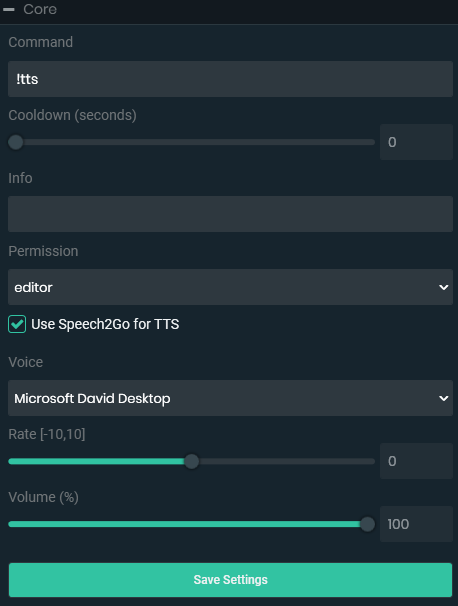
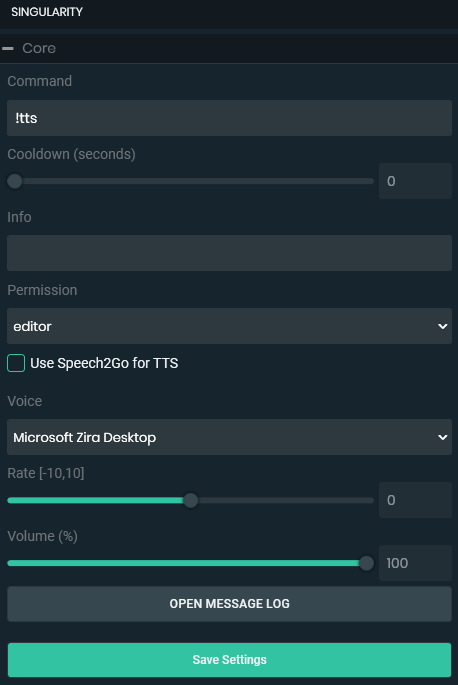
update singularity screenshot and description

diff --git a/README.md b/README.md
@@ -25,7 +25,8 @@ And here is a screenshot of the UI in the bot.
 
 [Latest Release](https://github.com/Reecon/SLSingularity/releases/latest "Singularity Latest Release")
 
-A simple script that allows people to whisper the bot for TextToSpeech. It uses the built in Windows TTS engine and voices.
+A simple script that allows people to whisper the bot for TextToSpeech. It uses the built in Windows TTS engine and voices by default.
+Support for the full version of the Speech2Go app is also available.
 
 ![Singularity Bot UI](https://github.com/Reecon/StreamLabsScripts/raw/master/images/Singularity.png "Singularity Bot UI")
 
